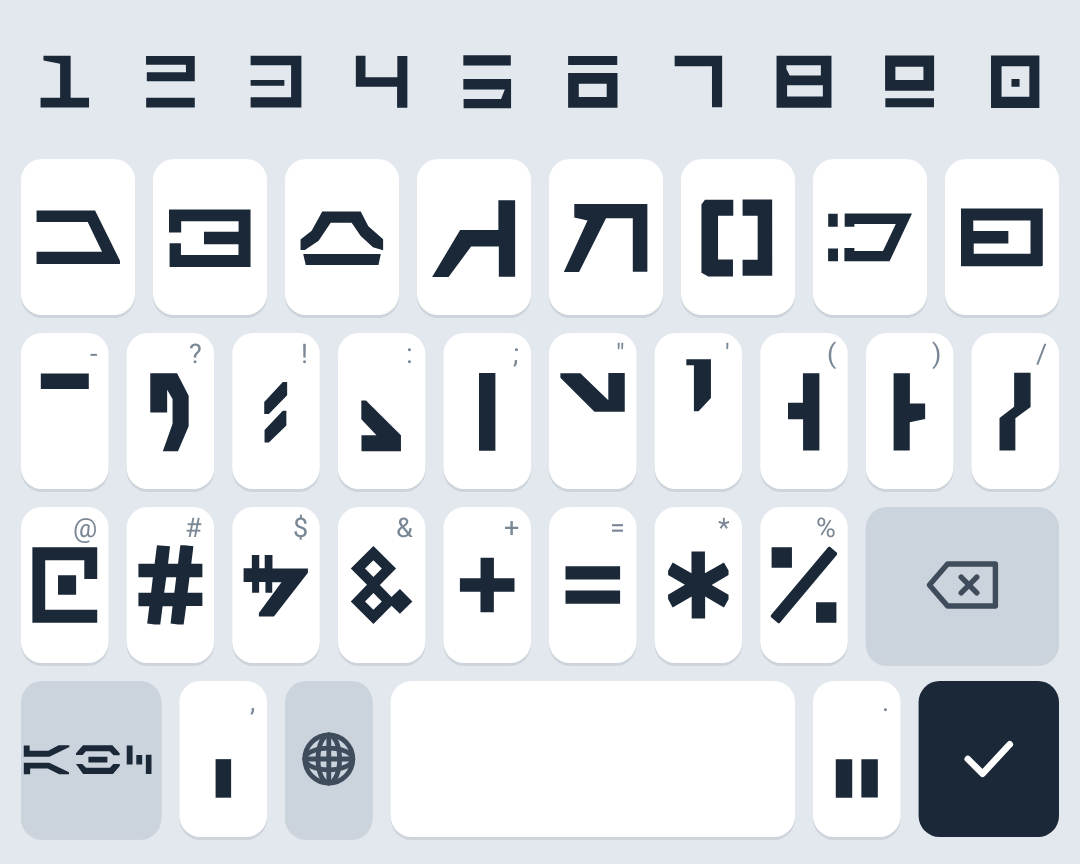
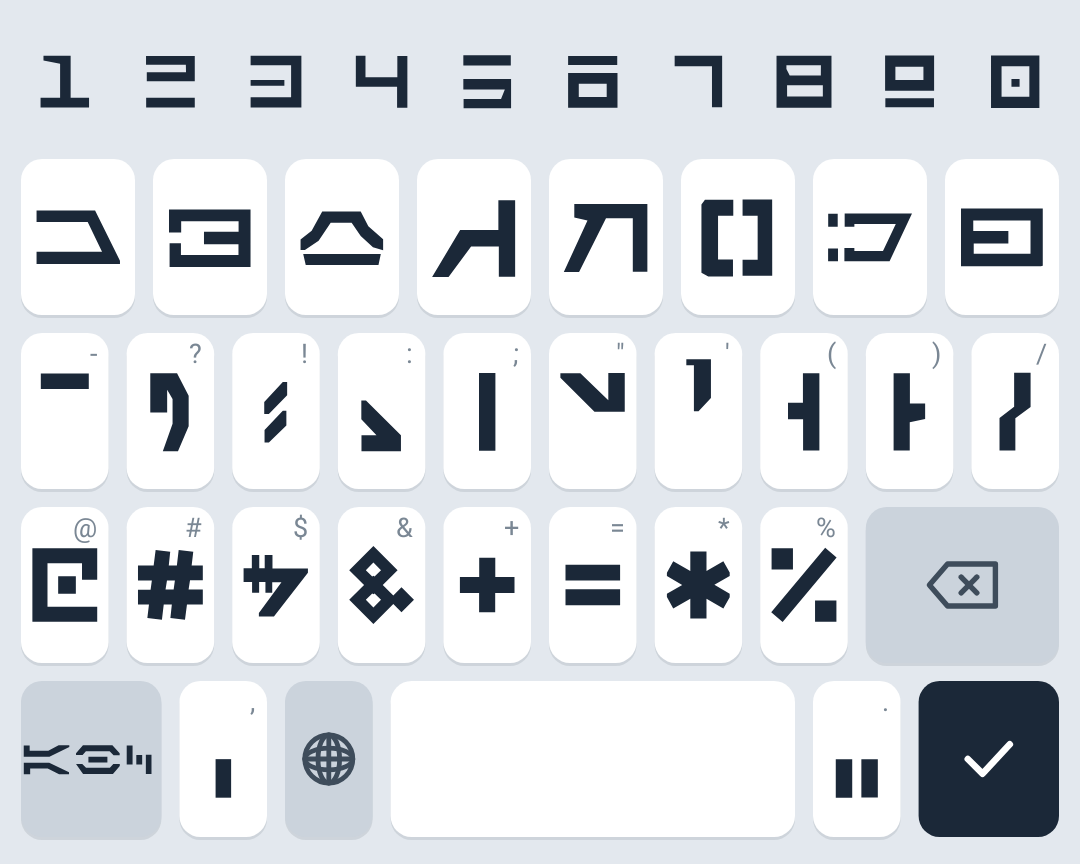
1.5: grosor de trazo armonizado en todos los signos (2,05 como las letras) y herramientas de diseño y auditoría de glifos
Claude-Session: https://claude.ai/code/session_0169nLUo7BxaBWms1Bxz2s9J

diff --git a/app/src/main/java/com/aurebesh/teclado/GlyphData.java b/app/src/main/java/com/aurebesh/teclado/GlyphData.java
@@ -4,7 +4,7 @@ package com.aurebesh.teclado;
 final class GlyphData {
     private GlyphData() {}
     static final String[] KEYS = {"a", "b", "c", "d", "e", "f", "g", "h", "i", "j", "k", "l", "m", "n", "o", "p", "q", "r", "s", "t", "u", "v", "w", "x", "y", "z", "ch", "ae", "eo", "kh", "ng", "oo", "sh", "th", ",", ".", "?", "!", ":", ";", "-", "\u201c", "\u201d", "\u2018", "\u2019", "(", ")", "/", "$", "0", "1", "2", "3", "4", "5", "6", "7", "8", "9", "\u00f1", "\u00e1", "\u00e9", "\u00ed", "\u00f3", "\u00fa", "\u00bf", "\u00a1", "+", "=", "#", "*", "%", "@", "&"};
-    static final float[] WIDTHS = {15.265f, 14.621f, 8.561f, 11.25f, 14.318f, 14.545f, 14.015f, 15.53f, 5.341f, 13.984f, 14.883f, 9.297f, 8.906f, 15.352f, 13.711f, 9.766f, 12.93f, 11.641f, 14.192f, 14.115f, 13.885f, 10.269f, 14.808f, 11.731f, 13.962f, 12.577f, 15.385f, 13.945f, 15.586f, 10.742f, 12.109f, 9.414f, 17.5f, 13.984f, 2.148f, 5.469f, 5.198f, 3.016f, 5.198f, 2.222f, 6.23f, 8.373f, 8.373f, 3.333f, 3.294f, 4.102f, 4.102f, 4.062f, 10.43f, 9.159f, 9.183f, 9.231f, 9.615f, 9.76f, 9.039f, 9.351f, 8.991f, 10.409f, 9.279f, 15.352f, 15.265f, 14.318f, 5.341f, 13.711f, 13.885f, 5.198f, 3.016f, 7f, 7f, 8.2f, 7.6f, 8.6f, 8.6f, 7.9f};
+    static final float[] WIDTHS = {15.265f, 14.621f, 8.561f, 11.25f, 14.318f, 14.545f, 14.015f, 15.53f, 5.341f, 13.984f, 14.883f, 9.297f, 8.906f, 15.352f, 13.711f, 9.766f, 12.93f, 11.641f, 14.192f, 14.115f, 13.885f, 10.269f, 14.808f, 11.731f, 13.962f, 12.577f, 15.385f, 13.945f, 15.586f, 10.742f, 12.109f, 9.414f, 17.5f, 13.984f, 2.148f, 5.469f, 5.198f, 3.016f, 5.198f, 2.222f, 6.23f, 8.373f, 8.373f, 3.333f, 3.294f, 4.102f, 4.102f, 4.062f, 10.43f, 9.159f, 9.183f, 9.231f, 9.615f, 9.76f, 9.039f, 9.351f, 8.991f, 10.409f, 9.279f, 15.352f, 15.265f, 14.318f, 5.341f, 13.711f, 13.885f, 5.198f, 3.016f, 7f, 7f, 9.0f, 7.9f, 8.8f, 8.8f, 8.3f};
     static final float[][][] POLYS = {
         /* a */ {{0.057f, 6.212f, 0.057f, 10.057f, 2.178f, 10.057f, 2.178f, 8.182f, 8.03f, 8.182f, 11.818f, 10.076f, 15.133f, 10.076f, 15.133f, 9.394f, 8.523f, 6.212f}, {15.227f, 0.436f, 11.667f, 0.436f, 8.22f, 2.216f, 2.008f, 2.216f, 2.008f, 0.492f, 0.038f, 0.492f, 0.038f, 4.28f, 8.598f, 4.28f, 15.227f, 0.985f}},
         /* b */ {{0.0f, 6.705f, 2.348f, 10.019f, 12.311f, 10.019f, 14.583f, 7.311f, 14.583f, 6.705f, 12.424f, 6.705f, 11.288f, 7.955f, 3.333f, 7.955f, 2.083f, 6.705f}, {4.129f, 4.223f, 4.129f, 6.174f, 10.455f, 6.174f, 10.455f, 4.223f}, {0.0f, 3.106f, 0.0f, 3.674f, 2.197f, 3.674f, 3.295f, 2.443f, 11.212f, 2.443f, 12.5f, 3.75f, 14.545f, 3.75f, 14.545f, 3.068f, 12.121f, 0.417f, 2.311f, 0.417f}},
@@ -73,12 +73,12 @@ final class GlyphData {
         /* \xfa */ {{13.615f, 0.346f, 7.462f, 0.346f, 4.654f, 3.731f, 4.654f, 4.308f, 6.846f, 4.308f, 8.462f, 2.442f, 11.673f, 2.442f, 11.673f, 7.894f, 2.173f, 7.899f, 2.173f, 0.365f, 0.096f, 0.365f, 0.096f, 9.974f, 13.615f, 9.975f}, {7.684f, -2.1f, 10.088f, -4.504f, 10.088f, -2.1f, 7.684f, 0.304f}},
         /* \xbf */ {{5.178f, 9.841f, 5.178f, 4.802f, 3.015f, 4.802f, 3.015f, 7.738f, 2.321f, 6.548f, 2.321f, 3.373f, 3.571f, -0.159f, 1.627f, -0.159f, 0.258f, 3.056f, 0.258f, 6.944f, 1.746f, 9.841f}},
         /* \xa1 */ {{0.179f, 5.04f, 0.635f, 5.04f, 2.976f, 2.579f, 2.976f, 0.952f, 2.421f, 0.952f, 0.179f, 3.135f}, {0.079f, 8.73f, 0.635f, 8.73f, 3.016f, 6.151f, 3.016f, 4.603f, 2.421f, 4.603f, 0.079f, 7.024f}},
-        /* + */ {{2.65f, 1.5f, 2.65f, 4.138f, 0.0f, 4.138f, 0.0f, 5.85f, 2.638f, 5.85f, 2.638f, 8.5f, 4.35f, 8.5f, 4.35f, 5.862f, 7.0f, 5.862f, 7.0f, 4.15f, 4.362f, 4.15f, 4.362f, 1.5f}},
-        /* = */ {{0.0f, 5.7f, 0.0f, 7.4f, 7.0f, 7.4f, 7.0f, 5.7f}, {0.0f, 2.6f, 0.0f, 4.3f, 7.0f, 4.3f, 7.0f, 2.6f}},
-        /* # */ {{2.375f, -0.1f, 2.075f, 2.288f, 0.0f, 2.288f, 0.0f, 4.013f, 1.85f, 4.013f, 1.625f, 5.987f, 0.0f, 5.987f, 0.0f, 7.713f, 1.4f, 7.713f, 1.125f, 9.95f, 2.075f, 10.075f, 2.8f, 10.075f, 3.1f, 7.713f, 4.375f, 7.713f, 4.125f, 9.95f, 5.075f, 10.075f, 5.8f, 10.075f, 6.125f, 7.7f, 8.2f, 7.7f, 8.2f, 5.987f, 6.3f, 5.987f, 6.55f, 4.013f, 8.2f, 4.013f, 8.2f, 2.288f, 6.775f, 2.288f, 7.05f, 0.025f, 5.95f, -0.1f, 5.375f, -0.1f, 5.075f, 2.288f, 3.8f, 2.288f, 4.05f, 0.025f}, {3.575f, 4.013f, 4.85f, 4.013f, 4.6f, 5.987f, 3.3f, 5.987f}},
-        /* * */ {{2.913f, 0.7f, 2.913f, 3.5f, 0.5f, 2.1f, -0.087f, 3.175f, -0.087f, 3.725f, 2.075f, 4.975f, -0.087f, 6.25f, -0.087f, 6.8f, 0.5f, 7.875f, 2.938f, 6.475f, 2.938f, 9.3f, 4.662f, 9.3f, 4.662f, 6.475f, 7.075f, 7.875f, 7.662f, 6.825f, 7.662f, 6.25f, 5.5f, 5.0f, 7.662f, 3.725f, 7.662f, 3.15f, 7.075f, 2.1f, 4.638f, 3.5f, 4.638f, 0.7f}},
-        /* % */ {{5.9f, 7.3f, 5.9f, 10.0f, 8.6f, 10.0f, 8.6f, 7.3f}, {0.0f, 0.0f, 0.0f, 2.7f, 2.7f, 2.7f, 2.7f, 0.0f}, {7.75f, -0.075f, 7.55f, -0.075f, -0.1f, 9.025f, -0.1f, 9.25f, 0.875f, 10.075f, 1.05f, 10.075f, 8.675f, 1.0f, 8.675f, 0.725f}},
-        /* @ */ {{3.4f, 3.7f, 3.4f, 6.3f, 5.8f, 6.3f, 5.8f, 3.7f}, {0.0f, 0.0f, 0.0f, 10.0f, 8.6f, 10.0f, 8.6f, 8.287f, 1.7f, 8.287f, 1.7f, 1.712f, 6.888f, 1.712f, 6.888f, 4.2f, 8.6f, 4.2f, 8.6f, 0.0f}},
-        /* & */ {{2.9f, 0.0f, 0.0f, 2.9f, 2.075f, 4.975f, 0.0f, 7.1f, 2.9f, 10.0f, 5.225f, 7.675f, 6.3f, 8.7f, 7.9f, 7.1f, 6.3f, 5.5f, 5.225f, 6.525f, 3.725f, 5.0f, 5.8f, 2.9f}, {2.9f, 6.025f, 3.975f, 7.1f, 2.9f, 8.175f, 1.825f, 7.1f}, {2.9f, 1.825f, 3.975f, 2.9f, 2.9f, 3.975f, 1.825f, 2.9f}},
+        /* + */ {{2.475f, 1.5f, 2.475f, 3.962f, 0.0f, 3.962f, 0.0f, 6.025f, 2.462f, 6.025f, 2.462f, 8.5f, 4.525f, 8.5f, 4.525f, 6.037f, 7.0f, 6.037f, 7.0f, 3.975f, 4.537f, 3.975f, 4.537f, 1.5f}},
+        /* = */ {{0.0f, 5.55f, 0.0f, 7.6f, 7.0f, 7.6f, 7.0f, 5.55f}, {0.0f, 2.4f, 0.0f, 4.425f, 7.0f, 4.425f, 7.0f, 2.4f}},
+        /* # */ {{2.45f, 0.15f, 2.175f, 2.3f, 0.0f, 2.3f, 0.0f, 4.362f, 1.925f, 4.362f, 1.75f, 5.65f, 0.0f, 5.65f, 0.0f, 7.713f, 1.525f, 7.713f, 1.3f, 9.575f, 3.325f, 9.825f, 3.575f, 7.713f, 4.7f, 7.713f, 4.5f, 9.575f, 6.525f, 9.825f, 6.8f, 7.7f, 9.0f, 7.7f, 9.0f, 5.638f, 7.025f, 5.638f, 7.225f, 4.35f, 9.0f, 4.35f, 9.0f, 2.288f, 7.45f, 2.288f, 7.675f, 0.4f, 5.65f, 0.15f, 5.4f, 2.288f, 4.275f, 2.288f, 4.475f, 0.4f}, {4.025f, 4.362f, 5.125f, 4.362f, 4.95f, 5.638f, 3.825f, 5.638f}},
+        /* * */ {{2.913f, 0.7f, 2.913f, 3.2f, 0.725f, 1.95f, -0.087f, 3.425f, -0.087f, 3.85f, 1.875f, 5.0f, -0.087f, 6.125f, -0.087f, 6.55f, 0.725f, 8.025f, 2.913f, 6.775f, 2.913f, 9.3f, 4.987f, 9.3f, 4.987f, 6.775f, 7.15f, 8.025f, 7.963f, 6.575f, 7.963f, 6.125f, 6.0f, 4.975f, 7.963f, 3.85f, 7.963f, 3.4f, 7.15f, 1.95f, 4.987f, 3.2f, 4.987f, 0.7f}},
+        /* % */ {{5.9f, 7.1f, 5.9f, 10.0f, 8.8f, 10.0f, 8.8f, 7.1f}, {0.0f, 0.0f, 0.0f, 2.9f, 2.9f, 2.9f, 2.9f, 0.0f}, {7.275f, -0.05f, -0.05f, 8.7f, 1.5f, 10.025f, 8.825f, 1.275f}},
+        /* @ */ {{3.5f, 3.8f, 3.5f, 6.2f, 5.9f, 6.2f, 5.9f, 3.8f}, {0.0f, 0.0f, 0.0f, 10.0f, 8.8f, 10.0f, 8.8f, 7.938f, 2.05f, 7.938f, 2.05f, 2.062f, 6.737f, 2.062f, 6.737f, 4.3f, 8.8f, 4.3f, 8.8f, 0.0f}},
+        /* & */ {{3.1f, 0.0f, 0.0f, 3.1f, 1.9f, 5.0f, 0.0f, 6.9f, 3.1f, 10.0f, 5.65f, 7.45f, 6.7f, 8.5f, 8.3f, 6.9f, 6.7f, 5.3f, 5.65f, 6.35f, 4.3f, 5.0f, 6.2f, 3.1f}, {2.95f, 6.075f, 3.1f, 6.2f, 3.25f, 6.075f, 4.075f, 6.9f, 3.1f, 7.875f, 2.125f, 6.9f}, {3.1f, 2.125f, 4.075f, 3.1f, 3.25f, 3.925f, 3.1f, 3.8f, 2.95f, 3.925f, 2.125f, 3.1f}},
     };
 }

diff --git a/tools/symbols_design.py b/tools/symbols_design.py
@@ -1,0 +1,78 @@
+"""Glifos Aurebesh para los simbolos que el alfabeto no tiene (+ = * % # @ &): se componen con barras y
+cuadrados, se unen por rasterizacion y se vectorizan limpios."""
+import json, math, numpy as np, cv2
+S=40  # px por unidad
+T=1.7 # grosor de trazo (unidades)
+
+def rect(x0,y0,x1,y1): return [[x0,y0],[x1,y0],[x1,y1],[x0,y1]]
+def bar(cx,cy,length,angle_deg,t=T):
+    a=math.radians(angle_deg); dx,dy=math.cos(a),math.sin(a); nx,ny=-dy,dx
+    L=length/2; h=t/2
+    return [[cx+dx*L+nx*h,cy+dy*L+ny*h],[cx-dx*L+nx*h,cy-dy*L+ny*h],[cx-dx*L-nx*h,cy-dy*L-ny*h],[cx+dx*L-nx*h,cy+dy*L-ny*h]]
+def diamond_ring(cx,cy,r,t=T):
+    outer=[[cx,cy-r],[cx+r,cy],[cx,cy+r],[cx-r,cy]]; ri=r-t*1.25
+    inner=[[cx,cy-ri],[cx+ri,cy],[cx,cy+ri],[cx-ri,cy]]
+    return [outer,inner]  # el anillo sale de la union par-impar
+
+def snap(poly,tol):
+    P=[list(p) for p in poly]; n=len(P)
+    for _ in range(3):
+        for i in range(n):
+            a,c=P[i],P[(i+1)%n]; dx,dy=c[0]-a[0],c[1]-a[1]
+            if abs(dx)<=tol and abs(dy)>tol: m=(a[0]+c[0])/2; a[0]=c[0]=m
+            elif abs(dy)<=tol and abs(dx)>tol: m=(a[1]+c[1])/2; a[1]=c[1]=m
+    out=[]
+    for i in range(n):
+        p0,p1,p2=P[i-1],P[i],P[(i+1)%n]
+        cross=(p1[0]-p0[0])*(p2[1]-p1[1])-(p1[1]-p0[1])*(p2[0]-p1[0])
+        l1=math.hypot(p1[0]-p0[0],p1[1]-p0[1]); l2=math.hypot(p2[0]-p1[0],p2[1]-p1[1])
+        if l1 and l2 and abs(cross)/(l1*l2)<0.04: continue
+        out.append(p1)
+    return out
+
+def vectorize(w, pieces, evenodd_pieces=()):
+    """pieces: poligonos que se UNEN; evenodd_pieces: grupos (outer, inner) que forman anillos."""
+    H=int(10*S)+8; W=int(w*S)+8
+    m=np.zeros((H,W),np.uint8)
+    for poly in pieces:
+        cv2.fillPoly(m,[np.array([[4+x*S,4+y*S] for x,y in poly],np.int32)],255)
+    for group in evenodd_pieces:
+        g=np.zeros_like(m)
+        for poly in group:
+            pm=np.zeros_like(m); cv2.fillPoly(pm,[np.array([[4+x*S,4+y*S] for x,y in poly],np.int32)],255); g^=pm
+        m|=g
+    cs,_=cv2.findContours(m,cv2.RETR_CCOMP,cv2.CHAIN_APPROX_NONE)
+    polys=[]
+    for c in cs:
+        if cv2.contourArea(c)<0.3*S*S: continue
+        a=snap(cv2.approxPolyDP(c,0.045*S,True).reshape(-1,2).tolist(),0.06*S)
+        polys.append([[round((p[0]-4)/S,3),round((p[1]-4)/S,3)] for p in a])
+    return {'w':round(w,3),'p':polys}
+
+G={}
+G['+']=vectorize(7,[rect(0,5-T/2,7,5+T/2), rect(3.5-T/2,1.5,3.5+T/2,8.5)])
+G['=']=vectorize(7,[rect(0,2.6,7,2.6+T), rect(0,7.4-T,7,7.4)])
+G['#']=vectorize(8.2,[rect(0,2.3,8.2,2.3+T), rect(0,7.7-T,8.2,7.7), bar(2.6,5,10.2,97), bar(5.6,5,10.2,97)])
+G['*']=vectorize(7.6,[bar(3.8,5,8.6,90), bar(3.8,5,8.6,30), bar(3.8,5,8.6,150)])
+G['%']=vectorize(8.6,[rect(0,0,2.7,2.7), rect(5.9,7.3,8.6,10), bar(4.3,5,12.2,-50,1.6)])
+G['@']=vectorize(8.6,[rect(0,0,8.6,T), rect(0,0,T,10), rect(0,10-T,8.6,10), rect(8.6-T,0,8.6,4.2), rect(3.4,3.7,5.8,6.3)])
+G['&']=vectorize(8.4,[rect(6.2,10-T,8.4,10)],evenodd_pieces=[diamond_ring(3.6,3.1,3.1), diamond_ring(3.6,6.9,3.1)])
+json.dump(G,open('symbols_glyphs.json','w'))
+
+# vista previa grande y pequena
+def render(items,Sc,pad,H):
+    tot=sum(it['w']*Sc+pad for _,it in items)+pad
+    img=np.full((H,int(tot),3),255,np.uint8); x=pad; y=(H-10*Sc)//2
+    for name,it in items:
+        mask=np.zeros(img.shape[:2],np.uint8)
+        for poly in it['p']:
+            mm=np.zeros_like(mask); cv2.fillPoly(mm,[np.array([[x+px*Sc,y+py*Sc] for px,py in poly],np.int32)],1); mask^=mm
+        img[mask==1]=(56,40,27)
+        if Sc>8: cv2.putText(img,name,(int(x),int(y+10*Sc+34)),cv2.FONT_HERSHEY_SIMPLEX,0.9,(0,0,0),2)
+        x+=it['w']*Sc+pad
+    return img
+items=list(G.items())
+big=render(items,20,60,300); small=render(items,6,24,90)
+canvas=np.full((big.shape[0]+small.shape[0]+20,max(big.shape[1],small.shape[1]),3),255,np.uint8)
+canvas[:big.shape[0],:big.shape[1]]=big; canvas[big.shape[0]+20:,:small.shape[1]]=small
+cv2.imwrite('symbols_preview.png',canvas); print({k:len(v['p']) for k,v in G.items()})

diff --git a/tools/glyph_audit.py b/tools/glyph_audit.py
@@ -1,0 +1,30 @@
+import json, numpy as np, cv2
+G=json.load(open('glyphs.json')); S=60
+def mask_of(g):
+    xs=[p[0] for poly in g['p'] for p in poly]; ys=[p[1] for poly in g['p'] for p in poly]
+    x0,y0=min(xs),min(ys); W=int((max(xs)-x0)*S)+20; H=int((max(ys)-y0)*S)+20
+    m=np.zeros((H,W),np.uint8)
+    for poly in g['p']:
+        mm=np.zeros_like(m); cv2.fillPoly(mm,[np.array([[10+(x-x0)*S,10+(y-y0)*S] for x,y in poly],np.int32)],1); m^=mm
+    return m,(max(xs)-x0),(max(ys)-y0)
+def stroke(m):
+    dt=cv2.distanceTransform(m,cv2.DIST_L2,5)
+    sk=cv2.ximgproc.thinning(m*255) if hasattr(cv2,'ximgproc') else None
+    if sk is None:
+        # esqueleto aproximado: maximos locales de la transformada
+        k=cv2.dilate(dt,np.ones((7,7),np.uint8)); sk=((dt>=k-0.5)&(m>0)).astype(np.uint8)*255
+    vals=dt[sk>0]*2/S
+    return float(np.median(vals)), float(np.percentile(vals,90))
+rows=[]
+for k,g in G.items():
+    m,w,h=mask_of(g); med,p90=stroke(m)
+    rows.append((k,w,h,med,p90))
+letters=[r for r in rows if len(r[0])==1 and r[0].isalpha() and r[0] in 'abcdefghijklmnopqrstuvwxyz']
+digits=[r for r in rows if r[0].isdigit()]
+import statistics
+print("letras: grosor mediana %.2f (p10 %.2f, p90 %.2f), ancho medio %.1f"%(statistics.median(r[3] for r in letters), np.percentile([r[3] for r in letters],10), np.percentile([r[3] for r in letters],90), statistics.mean(r[1] for r in letters)))
+print("digitos: grosor mediana %.2f, alto %.1f"%(statistics.median(r[3] for r in digits), statistics.mean(r[2] for r in digits)))
+print("%-4s %6s %6s %7s"%('g','ancho','alto','grosor'))
+for r in rows:
+    if r[0] in 'abcdefghijklmnopqrstuvwxyz0123456789' and len(r[0])==1: continue
+    print("%-4s %6.2f %6.2f %7.2f"%r[:4])
